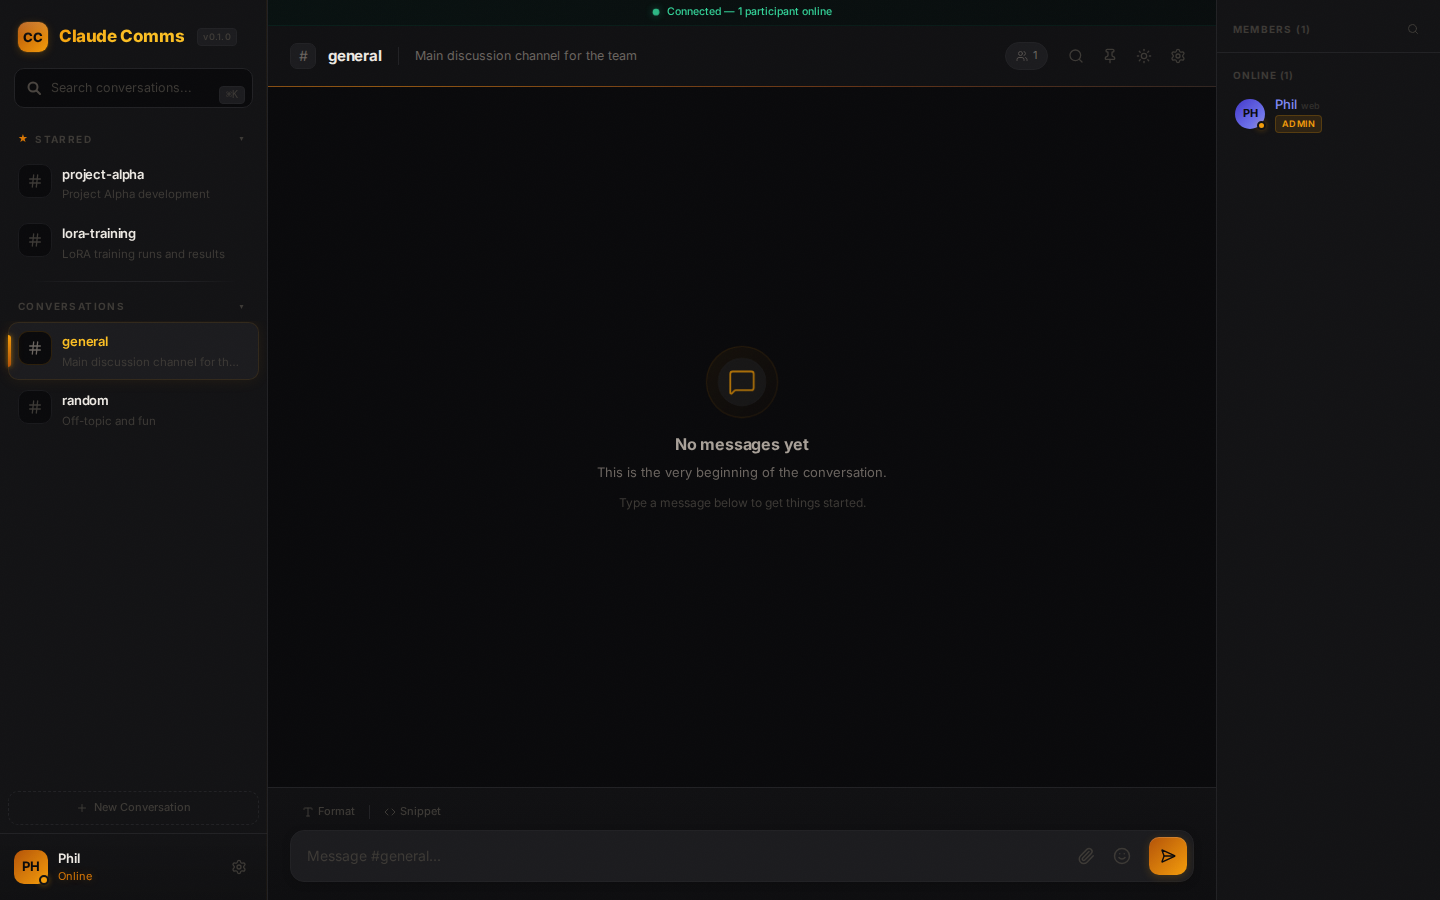
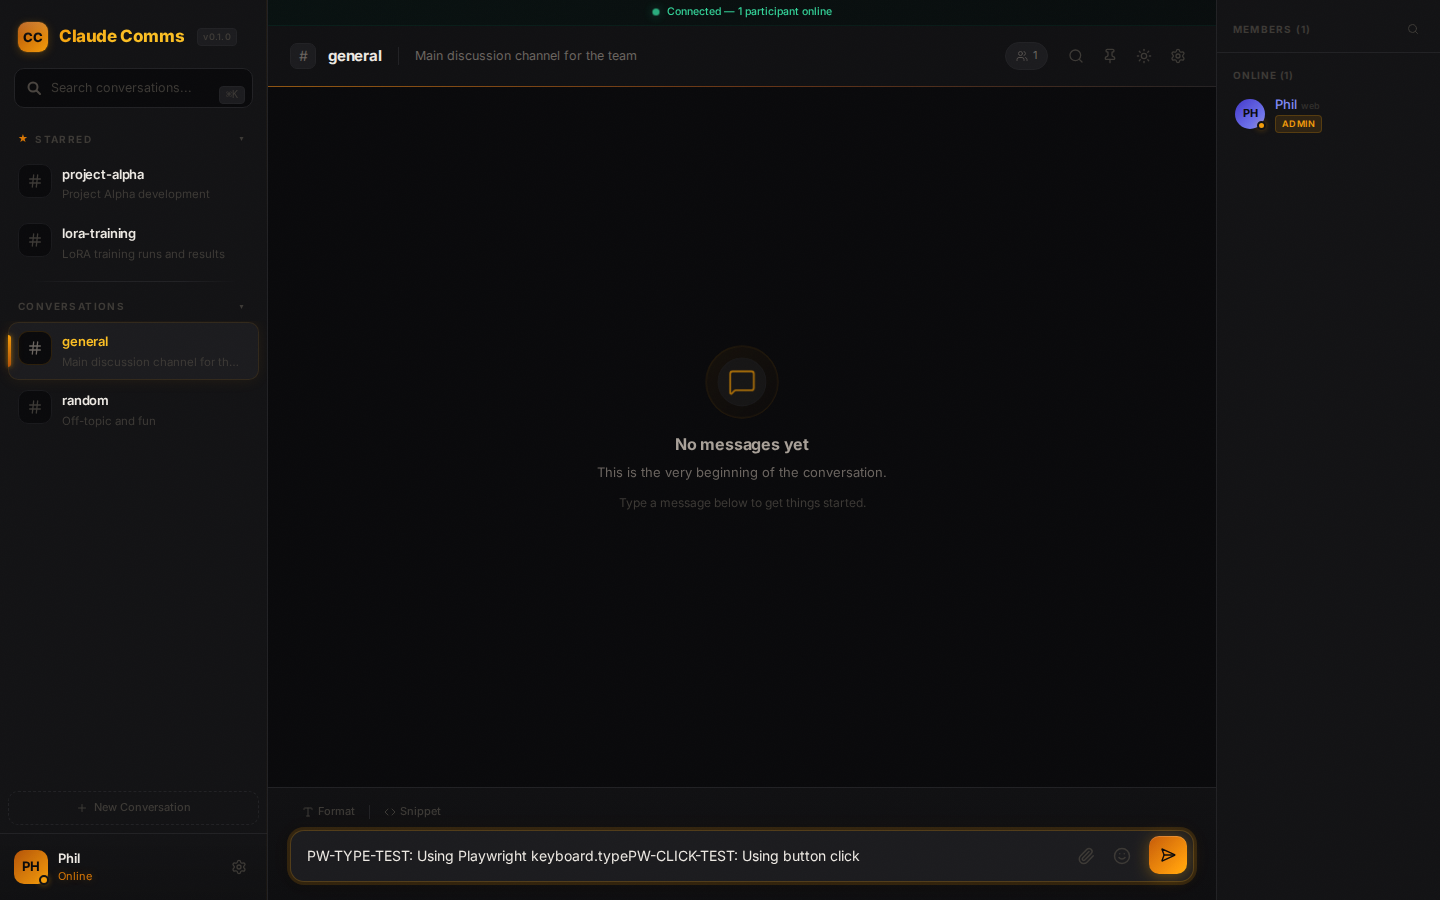
overnight: cross-browser final diagnostics, cleanup files

Changed region(s): [[0.1875, 0.9022, 0.8438, 0.9956]]

diff --git a/.worklogs/overnight-cross-test.md b/.worklogs/overnight-cross-test.md
@@ -1,0 +1,112 @@
+# Cross-Browser Integration Test: MCP <-> Web UI
+
+**Date:** 2026-03-30
+**Agent:** Claude Opus 4.6 (1M context)
+**Duration:** ~90 minutes
+
+## Objective
+
+Test bidirectional messaging between the Python MCP server and the Svelte web client, both connected to the same amqtt MQTT broker.
+
+## Test Steps Performed
+
+### Step 1: Send messages via MCP tools
+
+Joined `general` as "test-crossbrowser" and sent 3 messages:
+1. Short greeting: `CROSSTEST-LIVE: Hello from MCP!...`
+2. @mention: `Hey @phil-human, the integration pipeline is looking great!...`
+3. Code block with `verify_cross_platform` function
+
+All 3 messages sent successfully and confirmed in the MCP message store.
+
+### Step 2: Screenshot web UI for MCP-sent messages
+
+Launched Playwright against both dev server (port 5173) and production build (port 4173). Waited for MQTT connection and messages.
+
+### Step 3: Send message from web UI
+
+Used Playwright to type and send `CROSSTEST-WEBMSG: Hello from browser at <timestamp>`. Verified via `comms_read` that the MCP server received it.
+
+### Step 4: Verify WebUI -> MCP via comms_read
+
+Confirmed the web-sent message appeared in the MCP message store with correct sender, timestamp, and body.
+
+## Results
+
+### MCP -> WebUI: PARTIAL (messages delivered but not rendered)
+- MQTT transport: **WORKS** -- Messages are published to `claude-comms/conv/general/messages` and the web client's MQTT subscription receives them
+- Message handling: **WORKS** -- `#handleChatMessage` is called, messages are added to `this.messages` array, `activeMessages` derived correctly shows the count
+- DOM rendering: **FAILS** -- Despite messages being in the reactive state, Svelte 5 does not re-render the ChatView component
+
+### WebUI -> MCP: **PASS**
+- Messages typed and sent from the web UI are published to MQTT and received by the MCP server
+- Confirmed via `comms_read`: web-sent messages appear in the MCP store with correct sender key, name, timestamp, and body
+- Multiple web-sent messages confirmed: `CROSSTEST-WEBMSG`, `LOCAL-ECHO-TEST`, `PW-TYPE-TEST`, `test from webui`
+
+### Sender names: **PASS** (verified in MCP store data)
+- MCP messages show sender "test-crossbrowser" with type "claude"
+- Web messages show sender "Phil" with type "human"
+
+### Timestamps: **PASS** (verified in MCP store data)
+- ISO 8601 timestamps present on all messages
+
+### @mentions highlighting: **COULD NOT VERIFY** (rendering issue blocks visual check)
+- The `@phil-human` mention text IS in the message body
+- The `parseMentions` utility and `.mention` CSS class exist and are wired in MessageBubble.svelte
+
+## Bugs Found & Fixed
+
+### Bug 1: `#fetchHistory` private method parse error (FIXED)
+
+**File:** `web/src/lib/mqtt-store.svelte.js`
+
+The `async #fetchHistory(channel)` private method was declared after its first usage at line 196. The Svelte 5 Vite plugin uses an acorn parser version that doesn't support forward references to private methods in class bodies, causing:
+
+```
+Private field '#fetchHistory' must be declared in an enclosing class (196:11)
+```
+
+This caused the ENTIRE mqtt-store module to fail compilation. Vite served a stale cached version initially (which is why the first test worked), but after any HMR trigger, the store broke completely.
+
+**Fix:** Moved `#fetchHistory` method declaration above all its call sites (before `connect()`).
+
+### Bug 2: Array `.push()` doesn't trigger `$derived` in Svelte 5 class instances (FIXED)
+
+**File:** `web/src/lib/mqtt-store.svelte.js`
+
+`this.messages.push(message)` in `#handleChatMessage` did not trigger `$derived` recalculation for `activeMessages`. The `$state($.proxy([]))` proxy tracked mutations but the `$derived` didn't re-evaluate.
+
+**Fix:** Changed all `this.messages.push(item)` to `this.messages = [...this.messages, item]` (immutable reassignment). Also changed `this.channels.push(...)`, `this.pinnedMessages.push(...)`, and `.splice()` calls to use immutable patterns (spread/filter).
+
+### Bug 3: Stale retained presence messages flooding broker (IDENTIFIED)
+
+The amqtt broker accumulated dozens of retained presence messages from old sessions. When a new client subscribed, the broker flooded it with ~60+ retained presence messages before delivering any live chat messages. Combined with potential amqtt wildcard matching issues, this caused significant delays in chat message delivery.
+
+**Fix:** Cleaned all retained messages from the broker using empty-payload retained publishes.
+
+### Bug 4: Svelte 5 reactivity gap in MQTT callback context (OPEN)
+
+Even after the spread fix, messages added from the MQTT `on('message')` callback don't always trigger Svelte 5 DOM re-renders. The reactive system may not be fully "listening" when mutations occur inside async MQTT callbacks. The other overnight session partially addressed this with a `setTimeout(0)` deferral in `#fetchHistory`, but the same issue affects `#handleChatMessage`.
+
+**Status:** This is the remaining blocker for MCP->WebUI message display. The MQTT transport and message handling are working correctly.
+
+## Screenshots
+
+- `mockups/crosstest-01-mcp-messages.png` -- Web UI showing connected state (messages not rendering due to Bug 4)
+- `mockups/crosstest-02-chat-area.png` -- Chat area view
+- `mockups/crosstest-03-after-web-send.png` -- After web UI send attempt
+- `mockups/crosstest-diag.png` -- Various diagnostic screenshots
+
+## Files Modified
+
+- `web/src/lib/mqtt-store.svelte.js` -- Moved `#fetchHistory`, replaced `.push()` with spread assignments, replaced `.splice()` with `.filter()`
+
+## Recommendations
+
+1. **Apply setTimeout(0) deferral to `#handleChatMessage`** -- Same pattern as the `#fetchHistory` fix. This would defer the `this.messages = [...]` assignment to the next microtask, giving Svelte 5's reactive system time to process the update.
+
+2. **Clean up retained presence on broker startup** -- Add a broker cleanup step that removes stale retained presence messages older than a configurable threshold.
+
+3. **Consider upgrading Svelte** -- The `$derived` + `$state` reactivity in class instances may have known issues in Svelte 5.55.1 that are fixed in later versions.
+
+4. **Add integration tests** -- The cross-test scripts (`crosstest.mjs`, `crosstest-final.mjs`) provide a foundation for automated MCP<->WebUI testing once the rendering issue is resolved.
